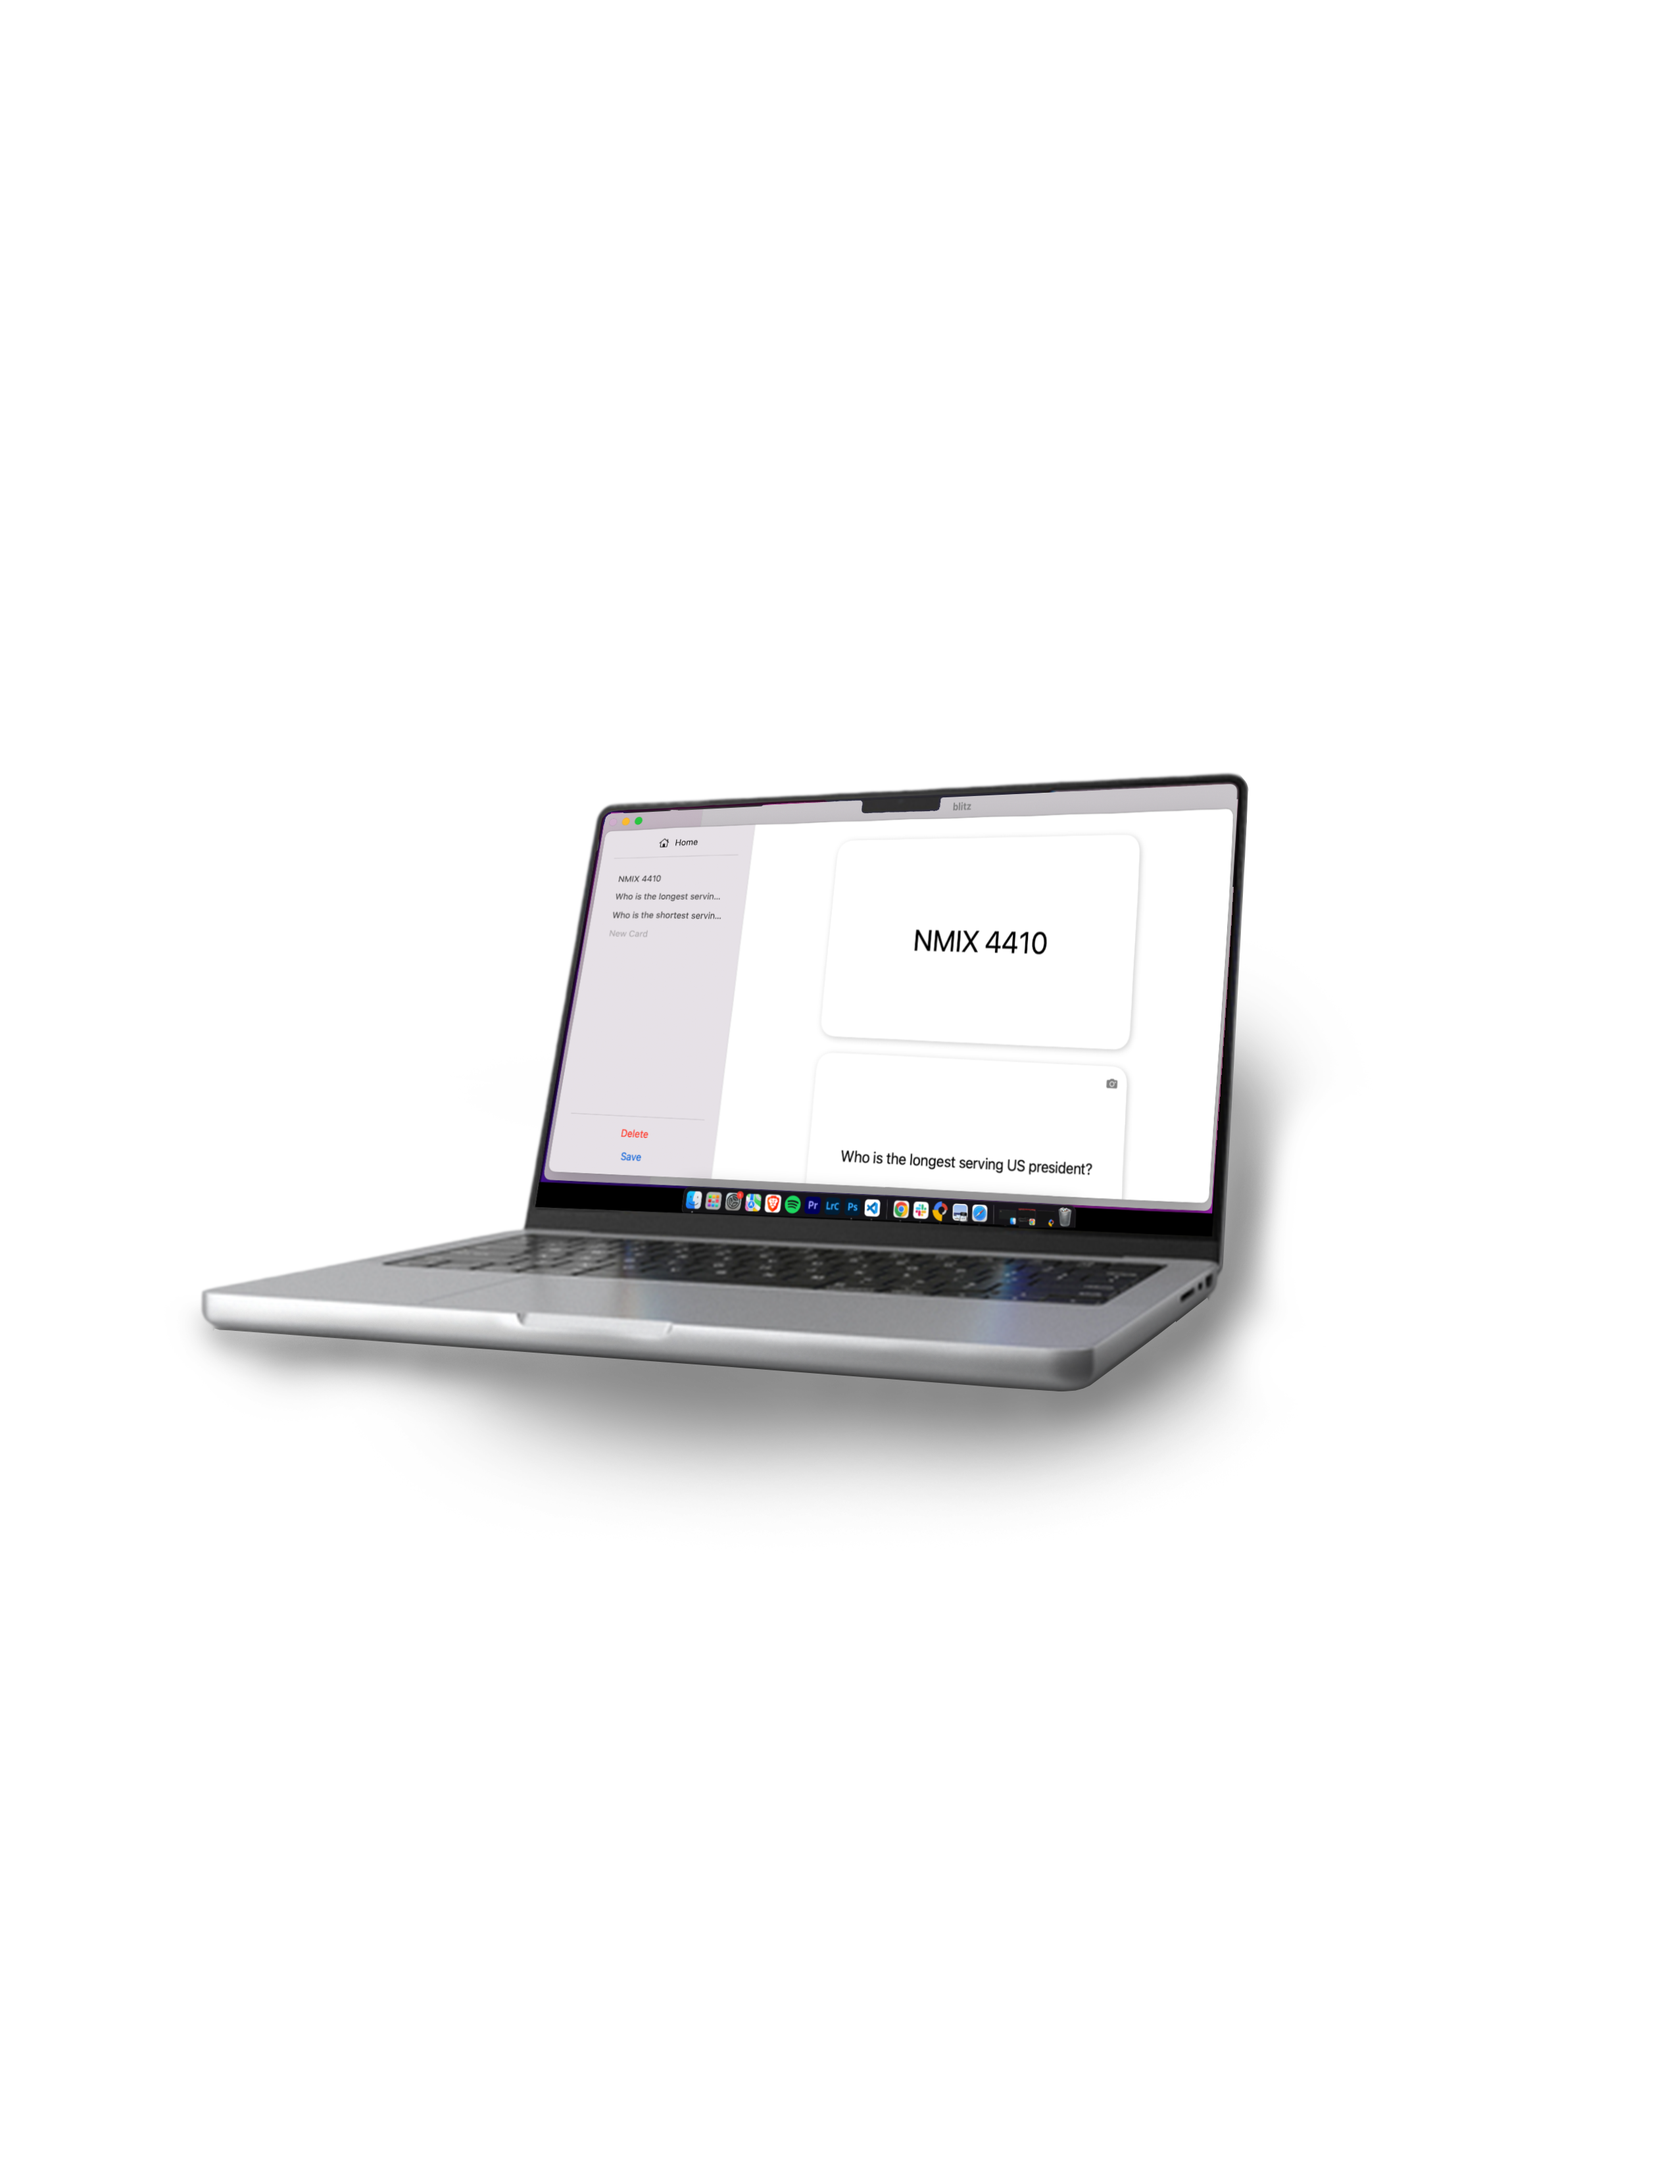
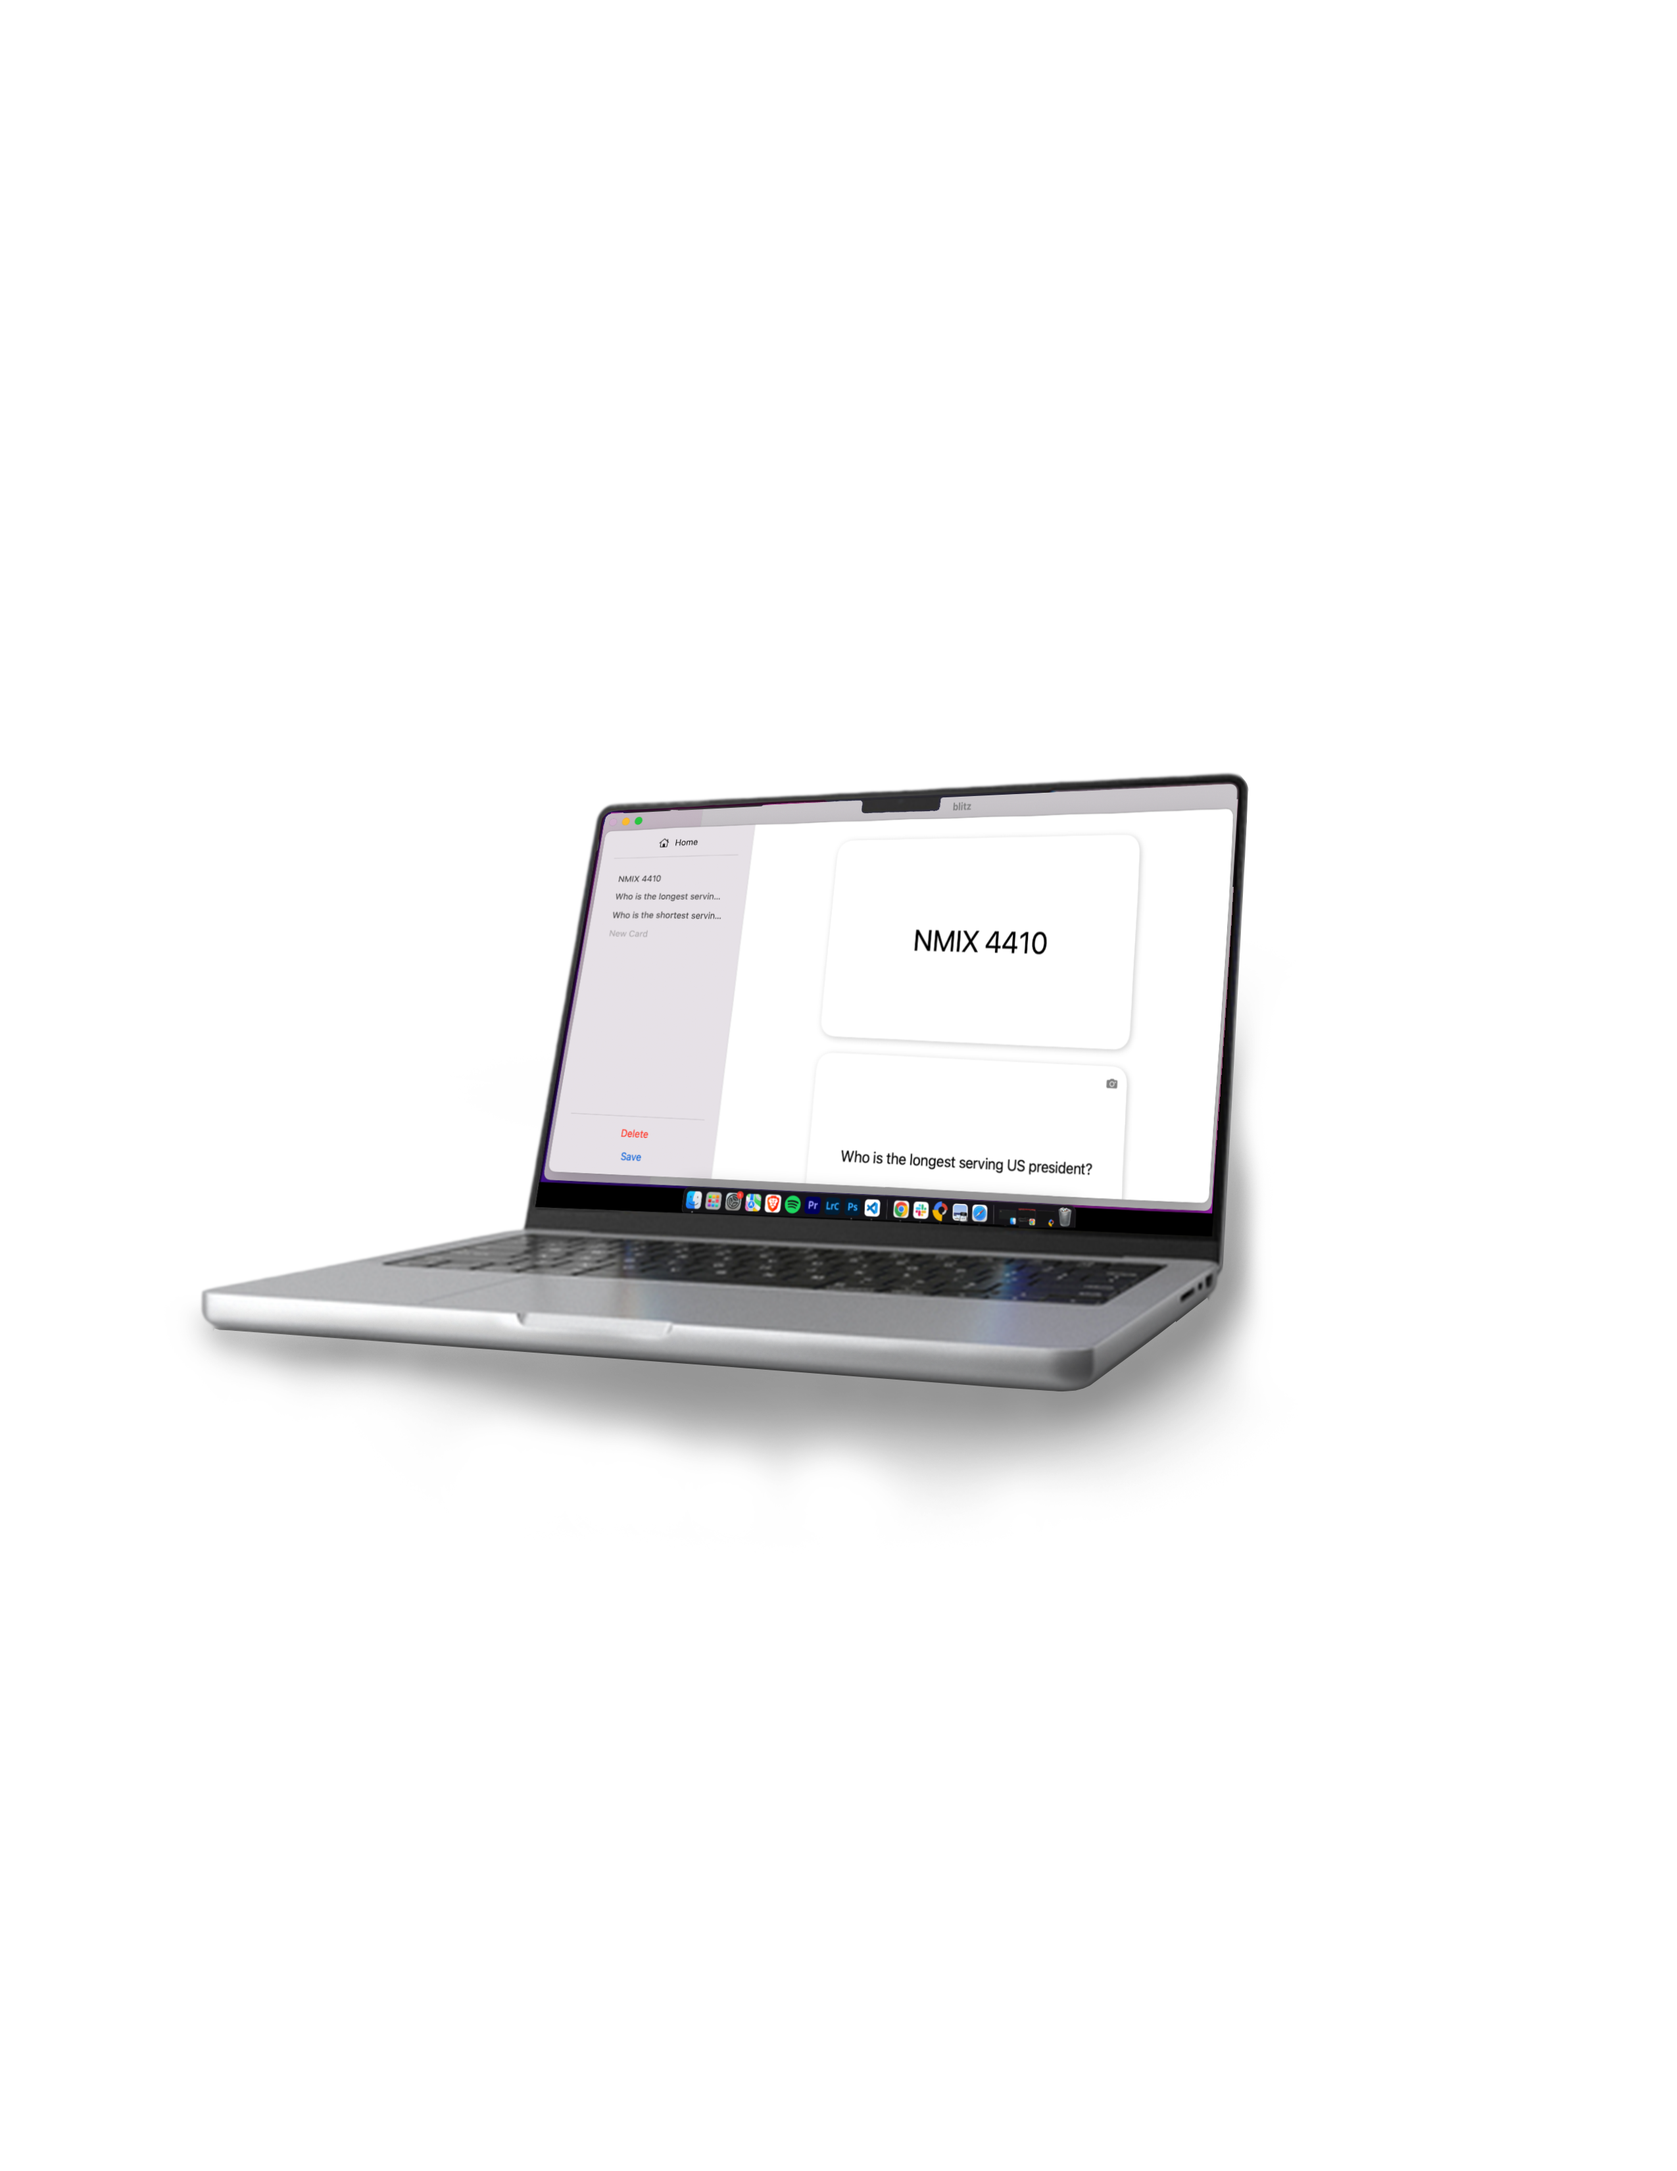
das

Changed region(s): [[0.7125, 0.4682, 0.7745, 0.593], [0.3098, 0.6242, 0.4647, 0.6867]]

diff --git a/index.html b/index.html
@@ -87,7 +87,7 @@
         <div class="container">
           <div class="row align-items-center">
             <!--This div contains the main hero image.-->
-            <div class="col-md-5 col-lg-6 order-0 order-md-1 text-end"><img class="pt-7 pt-md-0 hero-img" src="assets/img/hero/hero-macbook.png" alt="hero-header" /></div>
+            <div class="col-md-5 col-lg-6 order-0 order-md-1 text-end"><img class="pt-7 pt-md-0 hero-img" src="assets/img/hero/hero-macbook-shadow.png" alt="hero-header" /></div>
             <div class="col-md-7 col-lg-6 text-md-start text-center py-6">
               <h4 class="fw-bold text-danger mb-3">Less typing. More studying.</h4>
               <!-- <h1 class="hero-title">BLITZ</h1> -->
